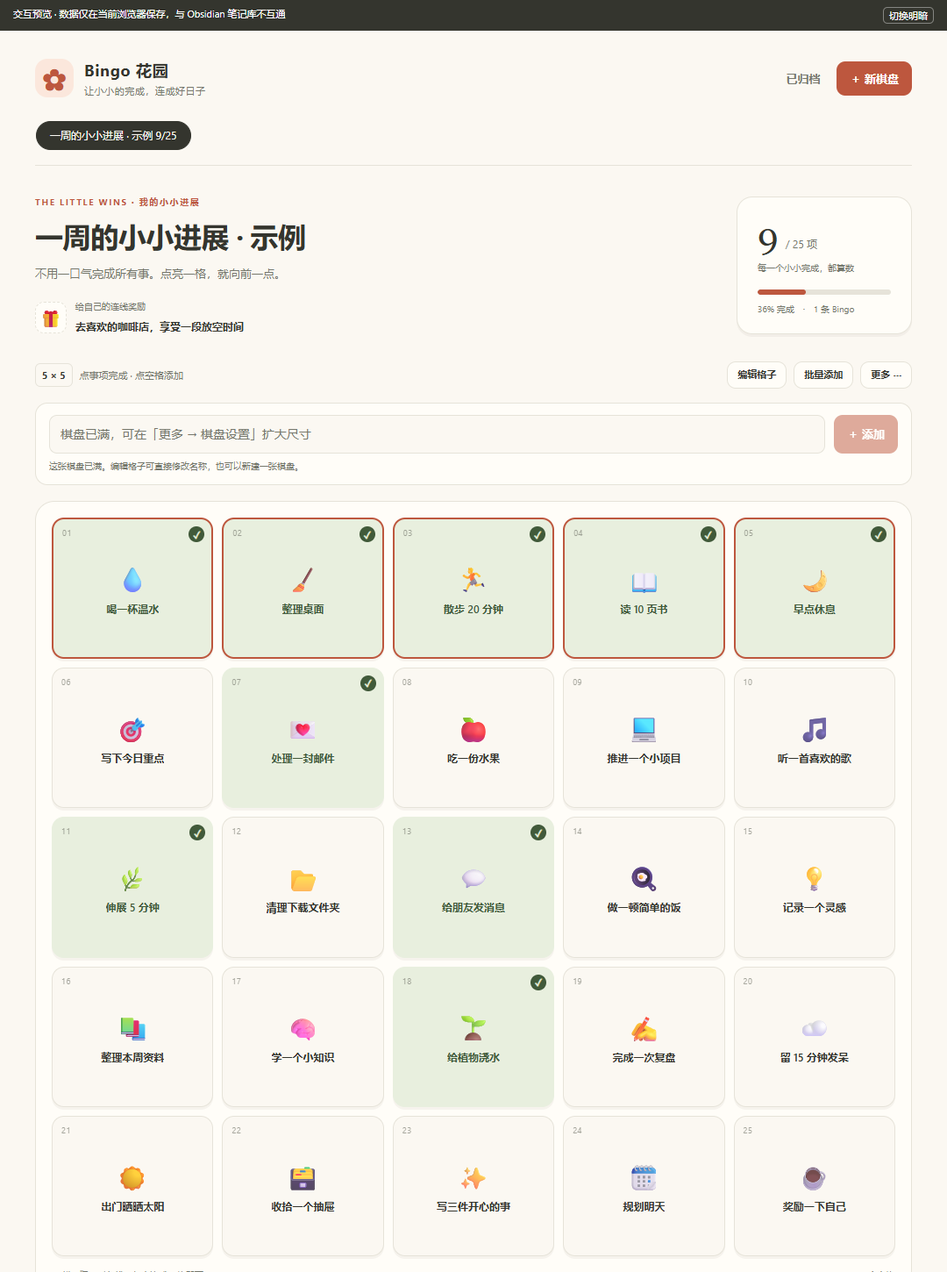
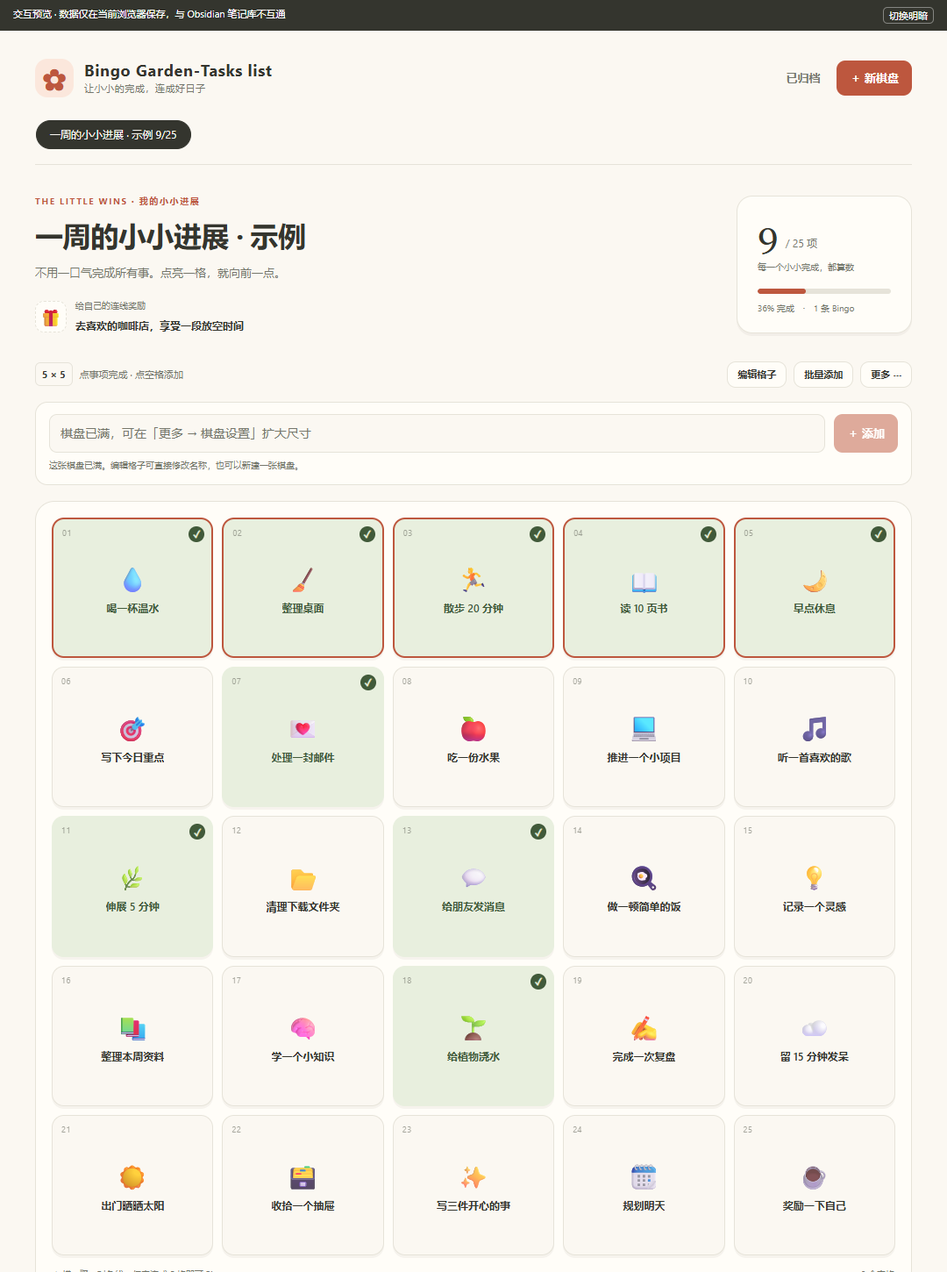
Rename plugin and resolve CSS and README review warnings

diff --git a/styles.css b/styles.css
@@ -14,7 +14,8 @@
 }
 .theme-dark .bg-root[data-theme="sage"] {--bg-accent:#b2cfa6;--bg-accent-soft:#394b37;--bg-complete:#384c37;--bg-complete-ink:#d2e9c0;}
 .theme-dark .bg-root[data-theme="lavender"] {--bg-accent:#d2b5ef;--bg-accent-soft:#44374f;--bg-complete:#493c56;--bg-complete-ink:#ead8fb;}
-.bg-root {background:var(--bg-paper);overflow:auto;padding:0!important;container-type:inline-size;}
+.bg-root {background:var(--bg-paper);overflow:auto;padding:0;container-type:inline-size;}
+.workspace-leaf-content[data-type="bingo-garden-view"] .view-content.bg-root {padding:0;}
 .bg-root *, .bg-modal * {box-sizing:border-box;}
 .bg-frame {max-width:1080px;margin:0 auto;padding:32px 40px 22px;}
 .bg-root button,.bg-modal button,.bg-file-card button {font:inherit;cursor:pointer;box-shadow:none;height:auto;white-space:normal;color:var(--bg-ink);}
@@ -27,9 +28,10 @@
 .bg-root .bg-quiet,.bg-modal .bg-quiet {background:transparent;color:var(--bg-muted);}
 .bg-root .bg-btn:hover,.bg-modal .bg-btn:hover {filter:brightness(.96);}
 .bg-masthead {display:flex;align-items:center;justify-content:space-between;gap:16px;padding-bottom:24px;}
-.bg-brand {display:flex;align-items:center;gap:12px;}
-.bg-brand-mark {display:grid;place-items:center;width:44px;height:44px;border-radius:14px;background:var(--bg-accent-soft);color:var(--bg-accent);font-size:34px;line-height:1;}
-.bg-brand-name {display:block;font-size:18px;font-weight:750;letter-spacing:.04em;}
+.bg-brand {display:flex;align-items:center;gap:12px;min-width:0;}
+.bg-brand-text {min-width:0;}
+.bg-brand-mark {display:grid;place-items:center;flex-shrink:0;width:44px;height:44px;border-radius:14px;background:var(--bg-accent-soft);color:var(--bg-accent);font-size:34px;line-height:1;}
+.bg-brand-name {display:block;font-size:18px;font-weight:750;letter-spacing:.04em;line-height:1.3;overflow-wrap:anywhere;}
 .bg-brand-caption {display:block;font-size:11px;color:var(--bg-muted);letter-spacing:.05em;}
 .bg-top-actions {display:flex;gap:4px;align-items:center;flex-shrink:0;}
 .bg-board-tabs {display:flex;gap:8px;overflow-x:auto;padding:2px 1px 17px;border-bottom:1px solid var(--bg-line);scrollbar-width:thin;}
@@ -203,6 +205,6 @@
   .bg-footer span:last-child {margin-top:7px;font-size:8px;}
 }
 @media (prefers-reduced-motion:reduce) {
-  .bg-root *, .bg-modal * {animation:none!important;transition:none!important;}
+  :is(.bg-root,.bg-modal,.bg-file-card) :is(.bg-btn,.bg-cell,.bg-progress-fill,.bg-line-pop,.bg-bingo-line,.bg-bingo-toast,.bg-bingo-confetti) {animation:none;transition:none;}
   .bg-root .bg-bingo-effects {display:none;}
 }

diff --git a/src/main.js b/src/main.js
@@ -12,7 +12,7 @@ class GardenModal extends Modal {
 class GardenView extends ItemView {
   constructor(leaf,plugin){super(leaf);this.plugin=plugin;}
   getViewType(){return VIEW;}
-  getDisplayText(){return 'Bingo 花园';}
+  getDisplayText(){return this.plugin.manifest.name;}
   getIcon(){return ICON;}
   async onOpen(){
     this.screen=new GardenScreen(this.contentEl,{
@@ -36,7 +36,7 @@ class BingoGardenPlugin extends Plugin {
     addIcon(ICON,'<g fill="none" stroke="currentColor" stroke-width="8" stroke-linecap="round" stroke-linejoin="round"><rect x="6" y="6" width="88" height="88" rx="10"/><path d="M35 6v88M65 6v88M6 35h88M6 65h88"/></g>');
     this.screens=new Set();this.store=new BoardStore(this.app.vault);
     this.registerView(VIEW,leaf=>new GardenView(leaf,this));
-    this.addRibbonIcon(ICON,'打开 Bingo 花园',()=>this.open());
+    this.addRibbonIcon(ICON,'打开 '+this.manifest.name,()=>this.open());
     this.addCommand({id:'open',name:'打开棋盘',callback:()=>this.open()});
     this.addCommand({id:'new-board',name:'新建棋盘',callback:async()=>{const view=await this.open();view.screen.boardDialog();}});
     const refresh=file=>{

diff --git a/src/ui.js b/src/ui.js
@@ -115,7 +115,7 @@ class GardenScreen {
     const frame=el(this.root,'div','bg-frame');
     const mast=el(frame,'header','bg-masthead');
     const brand=el(mast,'div','bg-brand');el(brand,'span','bg-brand-mark','✿');
-    const brandText=el(brand,'div');el(brandText,'span','bg-brand-name','Bingo 花园');el(brandText,'span','bg-brand-caption','让小小的完成，连成好日子');
+    const brandText=el(brand,'div','bg-brand-text');el(brandText,'span','bg-brand-name','Bingo Garden-Tasks list');el(brandText,'span','bg-brand-caption','让小小的完成，连成好日子');
     const topActions=el(mast,'div','bg-top-actions');
     button(topActions,this.archive?'返回棋盘':'已归档','bg-btn bg-quiet',()=>{this.archive=!this.archive;this.path=null;this.refresh();});
     button(topActions,'＋ 新棋盘','bg-btn bg-primary',()=>this.boardDialog());

diff --git a/README.md b/README.md
@@ -1,120 +1,86 @@
-# Bingo Garden / Bingo 花园
+# Bingo Garden-Tasks list
 
-Turn tasks into bingo boards inside Obsidian. Complete a row, column, or diagonal to celebrate small wins. Create multiple 3 by 3 to 6 by 6 boards, paste tasks in bulk, edit titles in place, and assign icons automatically or manually.
+Turn tasks into customizable bingo boards inside Obsidian. Check off small tasks, complete a row, column, or diagonal, and celebrate with a short animation.
 
-**Chinese interface.** Free, MIT licensed, and fully local: no account, network requests, telemetry, subscriptions, or file access outside the vault. Boards are stored as Markdown files in `Bingo Garden/`. Sync is provided by your existing vault sync tool; this plugin does not provide a sync service or offline conflict merging.
+[简体中文使用说明](README.zh-CN.md) · [Community listing](https://community.obsidian.md/plugins/bingo-garden) · [Download](https://github.com/dtta520-cpu/bingo-garden/releases/latest)
 
-**Installation:** download `main.js`, `manifest.json`, and `styles.css` from the [latest release](https://github.com/dtta520-cpu/bingo-garden/releases/latest), place them in `<vault>/.obsidian/plugins/bingo-garden/`, reload Obsidian, and enable Bingo Garden in Community plugins. Requires Obsidian 1.14.4 or later. See the [community listing](https://community.obsidian.md/plugins/bingo-garden) for its current public version and review status.
+**Version 1.3.2.** Free and MIT licensed. The interface is in Chinese. No separate account, subscription, server, or Tasks plugin is required.
 
-![Bingo Garden with example tasks](./screenshots/bingo-garden.png)
+![Bingo board with example tasks](./screenshots/bingo-garden.png)
 
-New in 1.3.1: macOS installation instructions and native Obsidian validation. Board behavior is unchanged from 1.3.0.
+## Features
 
-New in 1.3.0: light trails, staggered cell pulses, a Bingo badge, and a brief confetti burst for newly completed lines. Animations respect reduced-motion settings and do not replay when reopening a board.
+- Create multiple boards, each with a custom name, color palette, and optional reward.
+- Choose a board size from 3 by 3 to 6 by 6.
+- Enter one task at a time or paste multiple lines, including Markdown checklists.
+- Edit task titles directly in the grid with Enter and Tab navigation.
+- Assign varied icons automatically from task names, or select icons manually.
+- Complete rows, columns, and diagonals to trigger a light trail, cell pulses, a Bingo badge, and confetti.
+- Archive boards or copy them into a new round while preserving the original history.
+- Store each board in an ordinary Markdown file in your vault.
 
-![Line completion celebration with example tasks](./screenshots/line-celebration.png)
+![Line-completion animation with example tasks](./screenshots/line-celebration.png)
 
-## 中文使用说明
+## Installation and updates
 
-把想做的事情放进一张棋盘：完成一项，点亮一格；横、竖、对角线连成一线，就收获一次 Bingo。
+Requires **Obsidian 1.14.4 or later**. See the [community listing](https://community.obsidian.md/plugins/bingo-garden) for the current public version and review status.
 
-版本：1.3.1。适合个人使用。无需 Tasks 插件、账号、服务器或插件订阅。
+1. In Obsidian, open **Settings > Community plugins**, browse for **Bingo Garden-Tasks list**, and install it when the release is available there.
+2. Enable the plugin, then use the grid icon in the ribbon or the plugin's open-board command in the command palette.
 
-## 安装
+For manual installation, download `main.js`, `manifest.json`, and `styles.css` from the [latest release](https://github.com/dtta520-cpu/bingo-garden/releases/latest). Place these three files directly in `<vault>/.obsidian/plugins/bingo-garden/`, reload Obsidian, and enable the plugin. On macOS, press Command + Shift + Period in Finder to show hidden folders. A [Chinese Mac installation guide](MACOS.md) is also available.
 
-Mac 使用同一套插件文件，已在 macOS 的 Obsidian 1.14.5 中验证。具体步骤见 [Mac 安装说明](MACOS.md)。
+To update an existing installation, replace the same three runtime files and reload Obsidian. Version 1.3.2 changes the display name from Bingo Garden to Bingo Garden-Tasks list. The plugin ID remains `bingo-garden`, and existing boards remain in `Bingo Garden/`; no data migration or folder rename is needed.
 
-1. 解压安装包，找到 `bingo-garden` 文件夹。里面应直接包含 `main.js`、`manifest.json` 和 `styles.css`。
-2. 在你要使用的 Obsidian 笔记库中，打开 `.obsidian/plugins/` 文件夹；如果 `plugins` 不存在，创建它。
-3. 把整个 `bingo-garden` 文件夹放进去。最终路径应为：`你的笔记库/.obsidian/plugins/bingo-garden/main.js`。注意不要多套一层同名文件夹。
-4. 重新加载 Obsidian。在「设置 → 第三方插件」中，按 Obsidian 提示允许使用社区插件，然后启用 **Bingo Garden**。
-5. 点击左侧的九宫格图标，或在命令面板中运行 **Bingo Garden: 打开棋盘**。
+Mobile devices need their own installed and enabled copy of the plugin. Syncing notes alone does not necessarily sync `.obsidian` or install plugins. Physical iPhone and Android installation has not yet been verified.
 
-可在[社区条目](https://community.obsidian.md/plugins/bingo-garden)查看当前公开版本与审核状态，也可从 [GitHub Releases](https://github.com/dtta520-cpu/bingo-garden/releases) 下载三个运行文件手动安装。
+## Using a board
 
-手机端也需要安装和启用插件。最方便的方式是通过你的同步方案同步插件文件，或将上述三个运行文件放入手机端同一笔记库的相应插件目录，再重新加载并启用。不同同步工具对 `.obsidian` 的支持不同：仅同步笔记文件，不代表插件也已安装。iOS 的隐藏目录操作可能需要借助同步工具；本版未在 iPhone / Android 真机安装验证。
+Create a board, choose its size, and add tasks. Use the input above the grid for quick entry: Enter submits the tasks, while Shift + Enter adds a line break. Pasted lines fill empty cells in order. If there is insufficient space, the whole input is kept for editing and existing tasks are not overwritten.
 
-## 怎么玩
+Click a task in normal mode to toggle completion. In edit mode, change titles directly in cells; Enter or Tab saves and moves forward, Shift + Tab moves backward, and Escape discards the current unsaved title. Open a cell's details to change its icon or notes. Clear the title in the details dialog to empty the cell.
 
-- **新建棋盘：** 自定义名称，选择 3×3、4×4、5×5 或 6×6，选择配色，填写连线奖励。可以创建多张棋盘，通过顶部标签切换。
-- **快速添加：** 棋盘上方直接输入，按 Enter 添加并继续输入下一件；Shift + Enter 换行。可一次粘贴多行（包括 Markdown 复选清单和编号列表），每行一项，依次填入空格。只剩少量空格时，超出的输入会整体保留，不会覆盖已有事项。
-- **详细添加：** 点击空格填写名称、图标和补充说明；也可以点击「批量添加」，每行输入一项，填入空格。
-- **完成 / 撤销：** 在普通模式点击已有事项，即可切换完成状态。
-- **连续修改：** 点击「编辑格子」后直接在格子里修改名称。Enter / Tab 保存并跳到下一格，Shift + Tab 返回上一格；离开输入框也会保存。Esc 放弃当前未保存修改，恢复文件中的最新名称。点「完成编辑」会保存草稿并回到打卡模式。
-- **图标和说明：** 编辑模式中点击格子右上角「详情」；电脑端在普通模式也可以右键格子打开编辑窗口。
-- **自动搭配图标：** 新增事项会按名称匹配图标（如读书 📖、散步 🏃、工作 💻），相同类别优先使用不同图标；未匹配到类别时从多种图标中分配。图标随事项保存，重新打开或点击完成不会重新分配。详情中的「按事项内容自动搭配图标」可开关；手动选择图标后会保留你的选择。自动模式下，修改事项名称会重新匹配。旧版已有事项和自选图标保持原样，需要自动匹配时在详情里开启。
-- **清空格子：** 在编辑窗口中清空事项名称并保存，同时清除该格说明与完成状态。
-- **连线：** 同一行、同一列或一条对角线的所有格子都有事项且全部完成，才算一次 Bingo。空格不算完成，没有自动赠送的中心格。
-- **连线动画：** 新完成一行、一列或对角线时，格子依次轻弹、光线划过，弹出 BINGO 和短暂彩纸。动画约 2 秒，可继续点击；已经完成的连线不会在重新打开时重复播放。系统开启「减少动态效果」时仅保留静态提示。
-- **奖励：** 连成一线时显示你设置的奖励和庆祝效果。奖励是给自己的提示，本版不包含积分兑换商城。
-- **调整尺寸：** 在「更多 → 棋盘设置」中修改。已有事项按原先顺序重新排列、完成记录保留，连线重新计算；如果缩小会装不下已有内容，操作会被拒绝。
-- **打乱：** 只能打乱尚无完成记录的棋盘，避免改变已有连线。
-- **新一轮：** 「更多 → 复制为新一轮」保留原棋盘，把事项和奖励复制到新棋盘，并清空新棋盘的完成状态。
-- **归档 / 恢复：** 归档保存历史记录，可随时恢复。插件界面不提供永久删除。
+Every cell in a winning line must contain a task and be complete. Empty cells do not count, and there is no automatic free center cell. Only newly completed lines animate. Reopening a completed board does not replay the animation. The system's reduced-motion setting disables animation while preserving the static completion message.
 
-本版采用手动新建 / 复制下一轮，不会在午夜或每周自动重置棋盘。没有后台提醒、倒计时和手机桌面小组件。
+Completed tasks remain on the board. There is no automatic daily or weekly reset. Copy a board into a new round to keep its tasks and reward while resetting completion in the copy, or archive it to keep a historical record. The interface does not permanently delete boards. Rewards are personal reminders; there is no points store, notification service, countdown, or home-screen widget.
 
-## 数据与多端同步
+## Data, privacy, and synchronization
 
-每张棋盘是笔记库中 `Bingo Garden/` 下的一份独立 Markdown 文件。文件名使用唯一标识，避免同名棋盘覆盖。文件中的 `bingo-garden-data` 数据块保存事项、位置、完成时间、配色、奖励和归档状态。
+The plugin makes no network requests, sends no telemetry, and does not read files outside your vault. It uses the Obsidian API to list vault Markdown paths and to read or update board files in `Bingo Garden/`.
 
-在 Obsidian 阅读模式中，该数据块显示为「打开棋盘」入口。代码块下方可以添加自己的笔记；插件保存棋盘时会保留数据块外的内容。不要手动修改数据块，除非你了解其结构；损坏的数据会显示错误，插件不会以空白内容覆盖原文件。
+Each board's tasks, positions, icons, completion times, reward, and archive state are stored in a `bingo-garden-data` block. Notes outside that block are preserved when saving. Corrupt board data produces an error instead of being overwritten with an empty board. Avoid editing the data block by hand unless you understand its format.
 
-配合 Remotely Save、Obsidian Sync 或其他笔记库同步工具即可传递这些 Markdown 文件。Bingo Garden 本身不连接云端、不处理账户，也不验证同步是否已经完成。
+Use your existing vault synchronization tool to sync the `Bingo Garden/` folder. Install the same plugin version on every device, let synchronization finish before editing, and allow changes to upload before switching devices. The plugin does not supply a sync service, confirm sync completion, or merge concurrent offline edits from different devices.
 
-建议流程：
+Writes use Obsidian's `Vault.process` to read the current local file before applying a change. Conflicting edits to the same cell preserve the newer content and ask you to edit again. This is local conflict detection, not real-time collaboration. Cross-device conflict resolution depends on your sync tool. Keep independent backups and avoid using multiple sync engines on the same vault.
 
-1. 在各设备安装同一版本插件。
-2. 将 `Bingo Garden/` 文件夹纳入同一个笔记库的同步范围。
-3. 新设备打开 Obsidian 后先完成同步，再开始操作棋盘。
-4. 完成事项后等同步工具上传完毕，再换设备。
+## Appearance and compatibility
 
-本插件使用 Obsidian 的 `Vault.process` 在写入时读取最新本地文件，只修改此次操作涉及的内容；编辑同一个格子时检测到本地文件已有新内容，会保留新内容并要求重新编辑。**这不等于跨设备实时协作或离线冲突合并。** 两台离线设备同时改同一棋盘，最终如何合并仍取决于同步工具。请保留独立备份，不要让多个同步引擎同时管理同一份库。
+Three color palettes follow light and dark themes. The layout adapts to narrow screens, buttons support keyboard focus and accessible state descriptions, and animations respect reduced-motion preferences. For small screens, 3 by 3 or 4 by 4 boards offer more room for task names. Long names are truncated in cells and can be read in the details dialog.
 
-## 界面与兼容性
+The runtime uses no Node.js or Electron-specific APIs, and `isDesktopOnly` is `false`. Earlier versions were tested in real Obsidian on Windows and on an Apple Silicon Mac. Physical iPhone, Android, Intel Mac, and end-to-end cross-device synchronization remain unverified. See the [Chinese validation record](README.zh-CN.md#验证说明) for the platforms, versions, and scope of those checks.
 
-- 中文界面，三种配色，跟随 Obsidian 明暗主题。
-- 手机窄屏布局；键盘可聚焦按钮，支持屏幕阅读器状态描述，尊重系统减少动画设置。
-- 未调用 Node.js / Electron 专属运行接口；`isDesktopOnly` 为 `false`。
-- 公开发行版要求 Obsidian 1.14.4 或更高版本。实际 Obsidian 与手机真机测试状态见「验证说明」。
-- 小屏上建议优先用 3×3 或 4×4；6×6 可用，但长名称阅读空间更小。
-- 长事项名称在棋盘上会截断，编辑窗口可查看全文。
+## Development
 
-## 开发与验证
-
-源代码已随包提供。只需 Node.js 18 或以上版本，无需安装构建依赖：
+Node.js 18 or later is sufficient to build the plugin; there are no build dependencies to install.
 
 ```sh
 npm run build
 npm test
+npm run check
 node tests/build-preview.cjs
 ```
 
-`main.js` 是 `src/` 的构建产物；构建工具只打包内部模块，运行时仅依赖 Obsidian 自带 API。
+`main.js` is generated from the readable modules in `src/`. At runtime, the only external module is Obsidian's provided API. Browser interaction tests require Playwright and Microsoft Edge; set `PLAYWRIGHT_MODULE` to a separately installed Playwright package if needed.
 
-界面验证脚本 `tests/ui.cjs` 需要单独准备 Playwright 和 Microsoft Edge，或按环境调整启动浏览器。交互预览使用与插件相同的界面代码和文件更新逻辑，但把数据保存在浏览器本地存储中，**不连接真实 Obsidian 笔记库**。
+The standalone preview uses the same interface and board-update code but stores example data in browser local storage. It does not connect to a real Obsidian vault. Save quick-entry and inline-edit drafts before closing the view or restarting the app.
 
-## 验证说明
+## Release notes and support
 
-已完成：
+Version 1.3.2 updates the display name, replaces forced CSS overrides with scoped rules, and separates the English and Chinese documentation. See the [changelog](CHANGELOG.md) for earlier releases.
 
-- 13 项核心测试：所有尺寸的横竖与对角连线、撤销、空格判定、数据往返、损坏数据处理、尺寸变化、批量添加、复制、打乱、写入冲突及队列恢复。
-- 浏览器交互验证：新建、添加、勾选、Bingo、撤销、刷新后保存、编辑冲突、复制下一轮、归档与恢复。
-- 1.1.0 输入交互验证：回车添加、多行粘贴、Shift + Enter 换行、中文组合输入事件保护、草稿与光标刷新保留、满格整批拒绝、写入失败后重试、重复回车防重、格内 Enter / Tab 连续编辑、Esc 恢复、失焦保存、同格冲突保护与完成编辑保存。
-- 1.2.0 新增 7 项图标测试，并完成界面验证：按内容匹配、同类分配、36 格通用图标去重、自动名称跟随、保留手选和旧版图标、重新打开保持一致，以及手机尺寸下的自动搭配开关。
-- 1.3.0 连线动画界面验证：只播放新连线、刷新时继续原有动画、撤销和切换后清理、一次完成四条线、减少动态效果、3×3–6×6 手机布局、缩放、深色模式，以及关闭视图后清理计时器和尺寸监听。
-- 320、390、768、1200 像素宽度的横向溢出检查，以及桌面、手机宽度、手机编辑窗口与深色模式的截图人工检查。
-- 真实 Obsidian 1.14.4：使用独立的临时配置和空白测试笔记库，验证插件加载、25 格显示、5 格连线、点击完成后写入 Markdown、原生编辑窗口保存，以及插件卸载重载后保留内容。
-- 2026-11-08，macOS 27.2 / Apple Silicon / Obsidian 1.14.5：在独立测试库中启用 1.3.0，创建 5×5 棋盘，批量添加 5 项，逐项勾选后显示 100% 完成、1 条 Bingo；重载后仍保留名称、奖励和 5 项完成状态。20 项自动测试及发布文件检查通过。
+Report reproducible issues through [GitHub Issues](https://github.com/dtta520-cpu/bingo-garden/issues). Include the plugin version, Obsidian version, platform, and steps to reproduce. Use a small example board instead of sharing private notes.
 
-待验证：iPhone / Android 真机。多端同步需要接入实际采用的同步工具后验证。
+The grid-task idea was inspired by BingoDays. This is an independent implementation and does not use its code, artwork, character assets, or branding.
 
-快速输入和格内编辑的草稿会在当前视图刷新时保留；关闭视图或重启应用前请完成添加或保存。同格冲突时保留输入草稿，按 Esc 可放弃草稿并恢复最新内容，再重新编辑。
-
-参考了 [BingoDays 的格子任务玩法](https://apps.apple.com/tw/app/bingodays-adhd%E5%BE%85%E8%BE%A6/id6760203837)。本插件为独立实现，未使用其代码、图片、角色素材或品牌标识。
-
-许可证：MIT。
-
-## Support
-
-Report reproducible problems through [GitHub Issues](https://github.com/dtta520-cpu/bingo-garden/issues). Include the plugin version, Obsidian version, platform, and steps to reproduce. Use a small example board instead of sharing private notes.
+Licensed under the [MIT License](LICENSE).

diff --git a/README.zh-CN.md b/README.zh-CN.md
@@ -1,0 +1,124 @@
+# Bingo Garden-Tasks list / 中文使用说明
+
+[English](README.md) · [Mac 安装说明](MACOS.md)
+
+1.3.2 将插件名称更新为 **Bingo Garden-Tasks list**，调整样式规则和说明文档。插件标识、安装目录和棋盘数据目录保持不变，现有棋盘无需迁移。
+
+Turn tasks into bingo boards inside Obsidian. Complete a row, column, or diagonal to celebrate small wins. Create multiple 3 by 3 to 6 by 6 boards, paste tasks in bulk, edit titles in place, and assign icons automatically or manually.
+
+**Chinese interface.** Free, MIT licensed, and fully local: no account, network requests, telemetry, subscriptions, or file access outside the vault. Boards are stored as Markdown files in `Bingo Garden/`. Sync is provided by your existing vault sync tool; this plugin does not provide a sync service or offline conflict merging.
+
+**Installation:** download `main.js`, `manifest.json`, and `styles.css` from the [latest release](https://github.com/dtta520-cpu/bingo-garden/releases/latest), place them in `<vault>/.obsidian/plugins/bingo-garden/`, reload Obsidian, and enable Bingo Garden in Community plugins. Requires Obsidian 1.14.4 or later. See the [community listing](https://community.obsidian.md/plugins/bingo-garden) for its current public version and review status.
+
+![Bingo Garden with example tasks](./screenshots/bingo-garden.png)
+
+New in 1.3.1: macOS installation instructions and native Obsidian validation. Board behavior is unchanged from 1.3.0.
+
+New in 1.3.0: light trails, staggered cell pulses, a Bingo badge, and a brief confetti burst for newly completed lines. Animations respect reduced-motion settings and do not replay when reopening a board.
+
+![Line completion celebration with example tasks](./screenshots/line-celebration.png)
+
+## 中文使用说明
+
+把想做的事情放进一张棋盘：完成一项，点亮一格；横、竖、对角线连成一线，就收获一次 Bingo。
+
+版本：1.3.2。适合个人使用。无需 Tasks 插件、账号、服务器或插件订阅。
+
+## 安装
+
+Mac 使用同一套插件文件，已在 macOS 的 Obsidian 1.14.5 中验证。具体步骤见 [Mac 安装说明](MACOS.md)。
+
+1. 解压安装包，找到 `bingo-garden` 文件夹。里面应直接包含 `main.js`、`manifest.json` 和 `styles.css`。
+2. 在你要使用的 Obsidian 笔记库中，打开 `.obsidian/plugins/` 文件夹；如果 `plugins` 不存在，创建它。
+3. 把整个 `bingo-garden` 文件夹放进去。最终路径应为：`你的笔记库/.obsidian/plugins/bingo-garden/main.js`。注意不要多套一层同名文件夹。
+4. 重新加载 Obsidian。在「设置 → 第三方插件」中，按 Obsidian 提示允许使用社区插件，然后启用 **Bingo Garden-Tasks list**。
+5. 点击左侧的九宫格图标，或在命令面板中运行 **Bingo Garden-Tasks list: 打开棋盘**。
+
+可在[社区条目](https://community.obsidian.md/plugins/bingo-garden)查看当前公开版本与审核状态，也可从 [GitHub Releases](https://github.com/dtta520-cpu/bingo-garden/releases) 下载三个运行文件手动安装。
+
+手机端也需要安装和启用插件。最方便的方式是通过你的同步方案同步插件文件，或将上述三个运行文件放入手机端同一笔记库的相应插件目录，再重新加载并启用。不同同步工具对 `.obsidian` 的支持不同：仅同步笔记文件，不代表插件也已安装。iOS 的隐藏目录操作可能需要借助同步工具；本版未在 iPhone / Android 真机安装验证。
+
+## 怎么玩
+
+- **新建棋盘：** 自定义名称，选择 3×3、4×4、5×5 或 6×6，选择配色，填写连线奖励。可以创建多张棋盘，通过顶部标签切换。
+- **快速添加：** 棋盘上方直接输入，按 Enter 添加并继续输入下一件；Shift + Enter 换行。可一次粘贴多行（包括 Markdown 复选清单和编号列表），每行一项，依次填入空格。只剩少量空格时，超出的输入会整体保留，不会覆盖已有事项。
+- **详细添加：** 点击空格填写名称、图标和补充说明；也可以点击「批量添加」，每行输入一项，填入空格。
+- **完成 / 撤销：** 在普通模式点击已有事项，即可切换完成状态。
+- **连续修改：** 点击「编辑格子」后直接在格子里修改名称。Enter / Tab 保存并跳到下一格，Shift + Tab 返回上一格；离开输入框也会保存。Esc 放弃当前未保存修改，恢复文件中的最新名称。点「完成编辑」会保存草稿并回到打卡模式。
+- **图标和说明：** 编辑模式中点击格子右上角「详情」；电脑端在普通模式也可以右键格子打开编辑窗口。
+- **自动搭配图标：** 新增事项会按名称匹配图标（如读书 📖、散步 🏃、工作 💻），相同类别优先使用不同图标；未匹配到类别时从多种图标中分配。图标随事项保存，重新打开或点击完成不会重新分配。详情中的「按事项内容自动搭配图标」可开关；手动选择图标后会保留你的选择。自动模式下，修改事项名称会重新匹配。旧版已有事项和自选图标保持原样，需要自动匹配时在详情里开启。
+- **清空格子：** 在编辑窗口中清空事项名称并保存，同时清除该格说明与完成状态。
+- **连线：** 同一行、同一列或一条对角线的所有格子都有事项且全部完成，才算一次 Bingo。空格不算完成，没有自动赠送的中心格。
+- **连线动画：** 新完成一行、一列或对角线时，格子依次轻弹、光线划过，弹出 BINGO 和短暂彩纸。动画约 2 秒，可继续点击；已经完成的连线不会在重新打开时重复播放。系统开启「减少动态效果」时仅保留静态提示。
+- **奖励：** 连成一线时显示你设置的奖励和庆祝效果。奖励是给自己的提示，本版不包含积分兑换商城。
+- **调整尺寸：** 在「更多 → 棋盘设置」中修改。已有事项按原先顺序重新排列、完成记录保留，连线重新计算；如果缩小会装不下已有内容，操作会被拒绝。
+- **打乱：** 只能打乱尚无完成记录的棋盘，避免改变已有连线。
+- **新一轮：** 「更多 → 复制为新一轮」保留原棋盘，把事项和奖励复制到新棋盘，并清空新棋盘的完成状态。
+- **归档 / 恢复：** 归档保存历史记录，可随时恢复。插件界面不提供永久删除。
+
+本版采用手动新建 / 复制下一轮，不会在午夜或每周自动重置棋盘。没有后台提醒、倒计时和手机桌面小组件。
+
+## 数据与多端同步
+
+每张棋盘是笔记库中 `Bingo Garden/` 下的一份独立 Markdown 文件。文件名使用唯一标识，避免同名棋盘覆盖。文件中的 `bingo-garden-data` 数据块保存事项、位置、完成时间、配色、奖励和归档状态。
+
+在 Obsidian 阅读模式中，该数据块显示为「打开棋盘」入口。代码块下方可以添加自己的笔记；插件保存棋盘时会保留数据块外的内容。不要手动修改数据块，除非你了解其结构；损坏的数据会显示错误，插件不会以空白内容覆盖原文件。
+
+配合 Remotely Save、Obsidian Sync 或其他笔记库同步工具即可传递这些 Markdown 文件。Bingo Garden 本身不连接云端、不处理账户，也不验证同步是否已经完成。
+
+建议流程：
+
+1. 在各设备安装同一版本插件。
+2. 将 `Bingo Garden/` 文件夹纳入同一个笔记库的同步范围。
+3. 新设备打开 Obsidian 后先完成同步，再开始操作棋盘。
+4. 完成事项后等同步工具上传完毕，再换设备。
+
+本插件使用 Obsidian 的 `Vault.process` 在写入时读取最新本地文件，只修改此次操作涉及的内容；编辑同一个格子时检测到本地文件已有新内容，会保留新内容并要求重新编辑。**这不等于跨设备实时协作或离线冲突合并。** 两台离线设备同时改同一棋盘，最终如何合并仍取决于同步工具。请保留独立备份，不要让多个同步引擎同时管理同一份库。
+
+## 界面与兼容性
+
+- 中文界面，三种配色，跟随 Obsidian 明暗主题。
+- 手机窄屏布局；键盘可聚焦按钮，支持屏幕阅读器状态描述，尊重系统减少动画设置。
+- 未调用 Node.js / Electron 专属运行接口；`isDesktopOnly` 为 `false`。
+- 公开发行版要求 Obsidian 1.14.4 或更高版本。实际 Obsidian 与手机真机测试状态见「验证说明」。
+- 小屏上建议优先用 3×3 或 4×4；6×6 可用，但长名称阅读空间更小。
+- 长事项名称在棋盘上会截断，编辑窗口可查看全文。
+
+## 开发与验证
+
+源代码已随包提供。只需 Node.js 18 或以上版本，无需安装构建依赖：
+
+```sh
+npm run build
+npm test
+node tests/build-preview.cjs
+```
+
+`main.js` 是 `src/` 的构建产物；构建工具只打包内部模块，运行时仅依赖 Obsidian 自带 API。
+
+界面验证脚本 `tests/ui.cjs` 需要单独准备 Playwright 和 Microsoft Edge，或按环境调整启动浏览器。交互预览使用与插件相同的界面代码和文件更新逻辑，但把数据保存在浏览器本地存储中，**不连接真实 Obsidian 笔记库**。
+
+## 验证说明
+
+已完成：
+
+- 13 项核心测试：所有尺寸的横竖与对角连线、撤销、空格判定、数据往返、损坏数据处理、尺寸变化、批量添加、复制、打乱、写入冲突及队列恢复。
+- 浏览器交互验证：新建、添加、勾选、Bingo、撤销、刷新后保存、编辑冲突、复制下一轮、归档与恢复。
+- 1.1.0 输入交互验证：回车添加、多行粘贴、Shift + Enter 换行、中文组合输入事件保护、草稿与光标刷新保留、满格整批拒绝、写入失败后重试、重复回车防重、格内 Enter / Tab 连续编辑、Esc 恢复、失焦保存、同格冲突保护与完成编辑保存。
+- 1.2.0 新增 7 项图标测试，并完成界面验证：按内容匹配、同类分配、36 格通用图标去重、自动名称跟随、保留手选和旧版图标、重新打开保持一致，以及手机尺寸下的自动搭配开关。
+- 1.3.0 连线动画界面验证：只播放新连线、刷新时继续原有动画、撤销和切换后清理、一次完成四条线、减少动态效果、3×3–6×6 手机布局、缩放、深色模式，以及关闭视图后清理计时器和尺寸监听。
+- 320、390、768、1200 像素宽度的横向溢出检查，以及桌面、手机宽度、手机编辑窗口与深色模式的截图人工检查。
+- 真实 Obsidian 1.14.4：使用独立的临时配置和空白测试笔记库，验证插件加载、25 格显示、5 格连线、点击完成后写入 Markdown、原生编辑窗口保存，以及插件卸载重载后保留内容。
+- 2026-11-08，macOS 27.2 / Apple Silicon / Obsidian 1.14.5：在独立测试库中启用 1.3.0，创建 5×5 棋盘，批量添加 5 项，逐项勾选后显示 100% 完成、1 条 Bingo；重载后仍保留名称、奖励和 5 项完成状态。20 项自动测试及发布文件检查通过。
+
+待验证：iPhone / Android 真机。多端同步需要接入实际采用的同步工具后验证。
+
+快速输入和格内编辑的草稿会在当前视图刷新时保留；关闭视图或重启应用前请完成添加或保存。同格冲突时保留输入草稿，按 Esc 可放弃草稿并恢复最新内容，再重新编辑。
+
+参考了 [BingoDays 的格子任务玩法](https://apps.apple.com/tw/app/bingodays-adhd%E5%BE%85%E8%BE%A6/id6760203837)。本插件为独立实现，未使用其代码、图片、角色素材或品牌标识。
+
+许可证：MIT。
+
+## Support
+
+Report reproducible problems through [GitHub Issues](https://github.com/dtta520-cpu/bingo-garden/issues). Include the plugin version, Obsidian version, platform, and steps to reproduce. Use a small example board instead of sharing private notes.

diff --git a/MACOS.md b/MACOS.md
@@ -1,13 +1,13 @@
 # 在 Mac 的 Obsidian 中使用
 
-Bingo Garden 1.3.1 使用与 1.3.0 相同的运行逻辑，已经使用跨平台的 Obsidian 接口，Mac 使用同一个插件包，无需独立 App、服务器或 Node.js。
+当前插件名称为 **Bingo Garden-Tasks list**。Mac 使用同一个插件包，无需独立 App、服务器或 Node.js。1.3.2 更新名称、样式规则和说明文档；下方 Mac 真机记录来自 1.3.0。
 
 1. 使用 Obsidian 1.14.4 或以上版本。
 2. 将安装包内的 `bingo-garden` 文件夹放入笔记库的 `.obsidian/plugins/`。
 3. 在 Finder 中按 `Command + Shift + .` 可显示 `.obsidian` 隐藏文件夹。
 4. 确认目录直接包含 `main.js`、`manifest.json` 和 `styles.css`。
-5. 打开 Obsidian 的“设置 → 第三方插件”，启用 Bingo Garden。
-6. 点击左侧棋盘图标，或用 `Command + P` 搜索“Bingo Garden”，创建棋盘。
+5. 打开 Obsidian 的“设置 → 第三方插件”，启用 Bingo Garden-Tasks list。
+6. 点击左侧棋盘图标，或用 `Command + P` 搜索“Bingo Garden-Tasks list”，创建棋盘。
 
 更新只需替换运行文件，保留笔记库中的 `Bingo Garden/` 文件夹。该文件夹中的 Markdown 保存棋盘、任务和进度。
 

diff --git a/CHANGELOG.md b/CHANGELOG.md
@@ -1,5 +1,11 @@
 # Changelog
 
+## 1.3.2
+
+- Rename the display name to **Bingo Garden-Tasks list** in the plugin manifest, view tab, ribbon tooltip, board header, and documentation. Keep the plugin ID and board folder stable so existing installations and boards continue to work.
+- Replace forced CSS overrides with scoped selectors, preserving reduced-motion behavior and the board layout.
+- Provide a complete English README and retain the Chinese guide in `README.zh-CN.md`.
+
 ## 1.3.1
 
 - 增加 Mac 安装说明和 macOS 27.2 / Apple Silicon / Obsidian 1.14.5 的真实操作验证记录。
